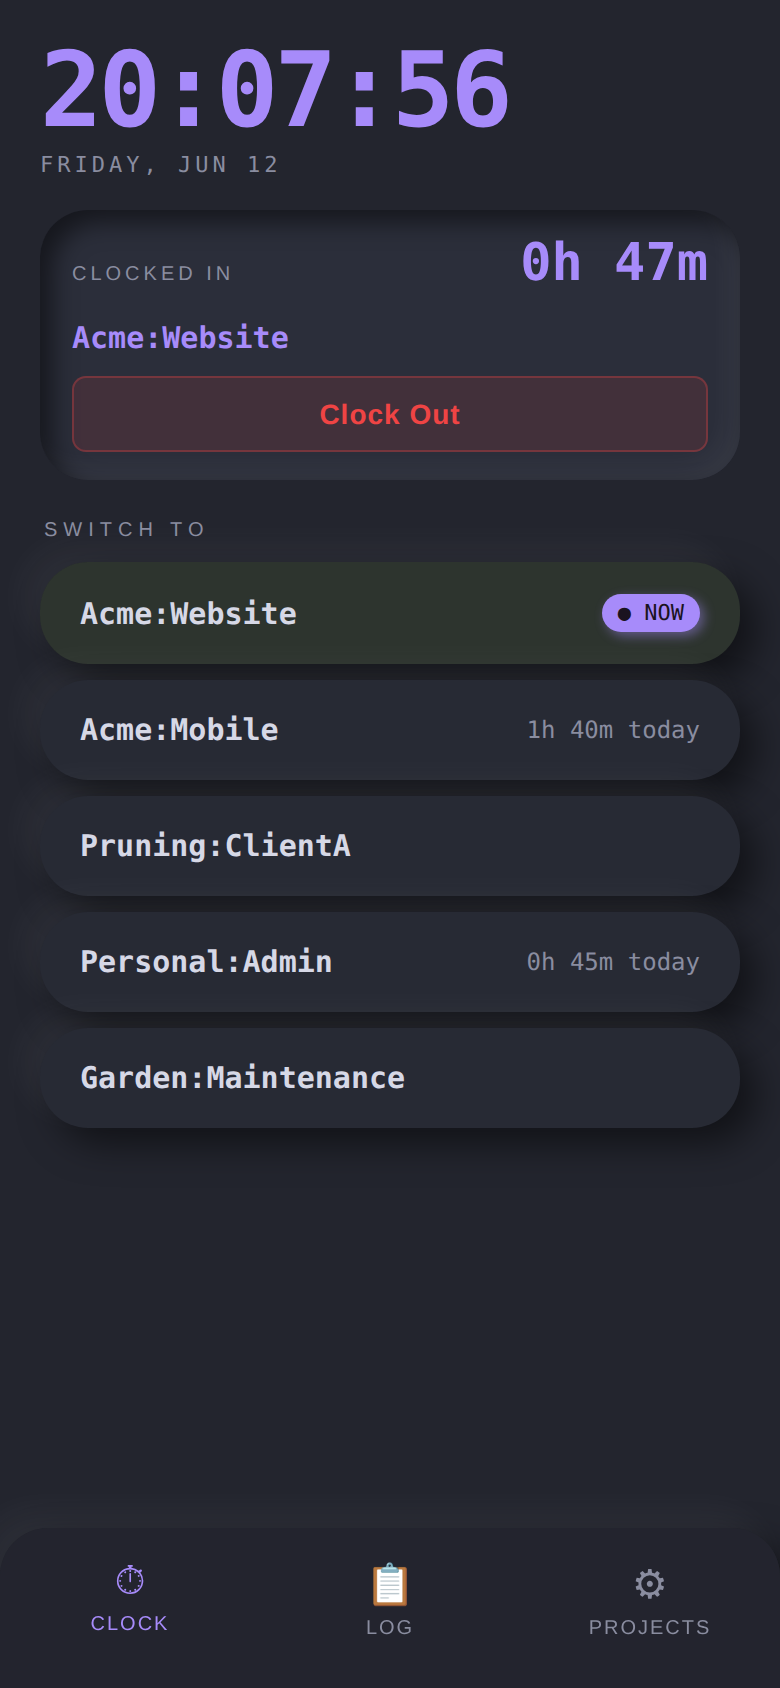
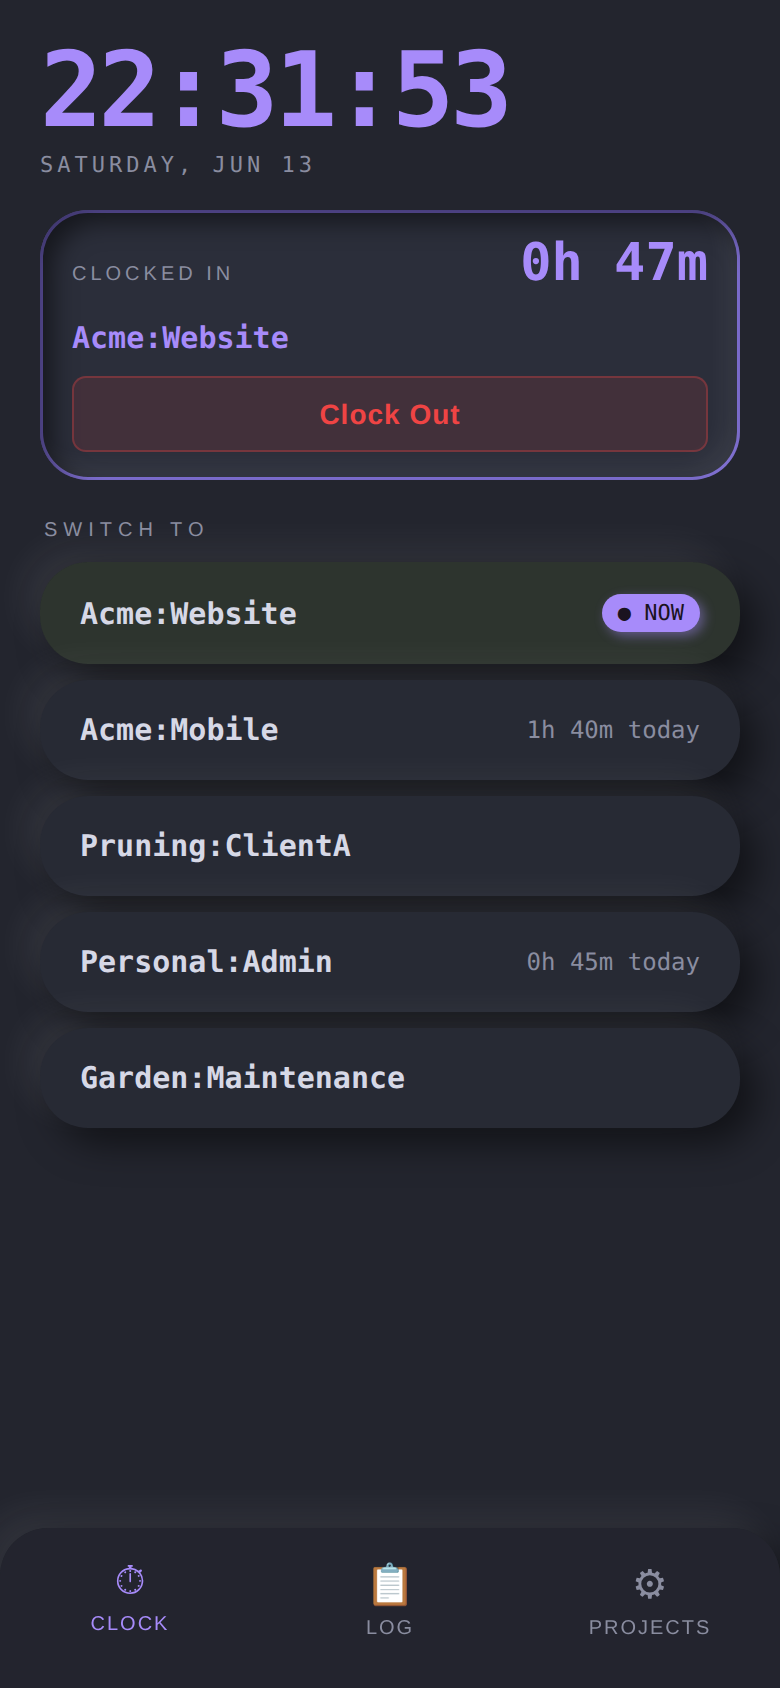
Soft Clay dark: define recessed active card with inset accent ring
The active session card was vanishing in clay-dark (no border, ~0.05
highlight, surface≈bg). Add an inset accent ring
(inset 0 0 0 1.5px var(--inset-edge)) for a crisp perimeter that keeps
the recessed feel, and bump --neu-l .05->.07 so the recess reads.
clay-light opts out via --inset-edge:transparent.

diff --git a/src/index.css b/src/index.css
@@ -452,7 +452,7 @@ html, body { background: var(--bg); }
 [data-theme^="clay-"] .edit-field,
 [data-theme^="clay-"] .add-input,
 [data-theme^="clay-"] .nav { border:none; border-radius:24px; box-shadow:8px 8px 18px var(--neu-d), -8px -8px 18px var(--neu-l); }
-[data-theme^="clay-"] .status-bar.active { background:var(--surface2); box-shadow: inset 6px 6px 12px var(--neu-d), inset -6px -6px 12px var(--neu-l); }
+[data-theme^="clay-"] .status-bar.active { background:var(--surface2); box-shadow: inset 6px 6px 12px var(--neu-d), inset -6px -6px 12px var(--neu-l), inset 0 0 0 1.5px var(--inset-edge); }
 [data-theme^="clay-"] .project-btn:active { box-shadow: inset 5px 5px 12px var(--neu-d), inset -5px -5px 12px var(--neu-l); transform:none; }
 [data-theme^="clay-"] .project-badge { background:var(--lime); color:var(--ink-on-accent); border:none; box-shadow:2px 2px 6px var(--accent-glow); }
 [data-theme^="clay-"] .nav { border-radius:24px 24px 0 0; }
@@ -462,7 +462,8 @@ html, body { background: var(--bg); }
   --text:#d6d8e6; --muted:#8a8da0; --times-color:#5d6072; --nav-bg:rgba(35,37,46,0.85);
   --lime:#a78bfa; --lime-dim:#7c6bd6; --lime-bg:rgba(167,139,250,0.08);
   --lime-badge-bg:#a78bfa; --lime-badge-border:transparent; --amber:#f0789f;
-  --neu-d:rgba(0,0,0,0.5); --neu-l:rgba(255,255,255,0.05); --ink-on-accent:#1a1320; --accent-glow:rgba(167,139,250,0.45);
+  --neu-d:rgba(0,0,0,0.5); --neu-l:rgba(255,255,255,0.07); --ink-on-accent:#1a1320; --accent-glow:rgba(167,139,250,0.45);
+  --inset-edge:var(--lime-dim);
 }
 [data-theme="clay-light"] {
   --bg:#e8e6ff; --surface:#efeefe; --surface2:#f1ecff; --border:transparent;
@@ -470,6 +471,7 @@ html, body { background: var(--bg); }
   --lime:#7c5cff; --lime-dim:#b9aaff; --lime-bg:rgba(124,92,255,0.06);
   --lime-badge-bg:#7c5cff; --lime-badge-border:transparent; --amber:#ef6aa8;
   --neu-d:rgba(160,150,210,0.55); --neu-l:rgba(255,255,255,0.9); --ink-on-accent:#ffffff; --accent-glow:rgba(124,92,255,0.5);
+  --inset-edge:transparent;
 }
 
 /* ── Daily-mode preview list (Projects → Appearance) ── */

diff --git a/design-preview/NOTES.md b/design-preview/NOTES.md
@@ -12,6 +12,13 @@
   get to those themes. (Indigo uses a glow pulse instead — see below.)
 
 ## Done
+- **Soft Clay · dark** — active session card was disappearing (no border,
+  invisible highlight, surface≈bg). Added an **inset accent ring**
+  (`inset 0 0 0 1.5px var(--inset-edge)`, `--inset-edge:var(--lime-dim)`) to
+  define the edge while keeping the recess; bumped `--neu-l` .05→.07 so the
+  recess actually reads. `clay-light` opts out via `--inset-edge:transparent`.
+  The recessed feel comes from the inset shadow *pair* (dark top-left / light
+  bottom-right = inverse of raised); the ring only supplies a crisp perimeter.
 - **Indigo · dark** — brighter active-job highlight (glowing edge ring on the
   running-session card + current project row, solid periwinkle NOW pill,
   brighter accent). Running-session card breathes its **glow**
